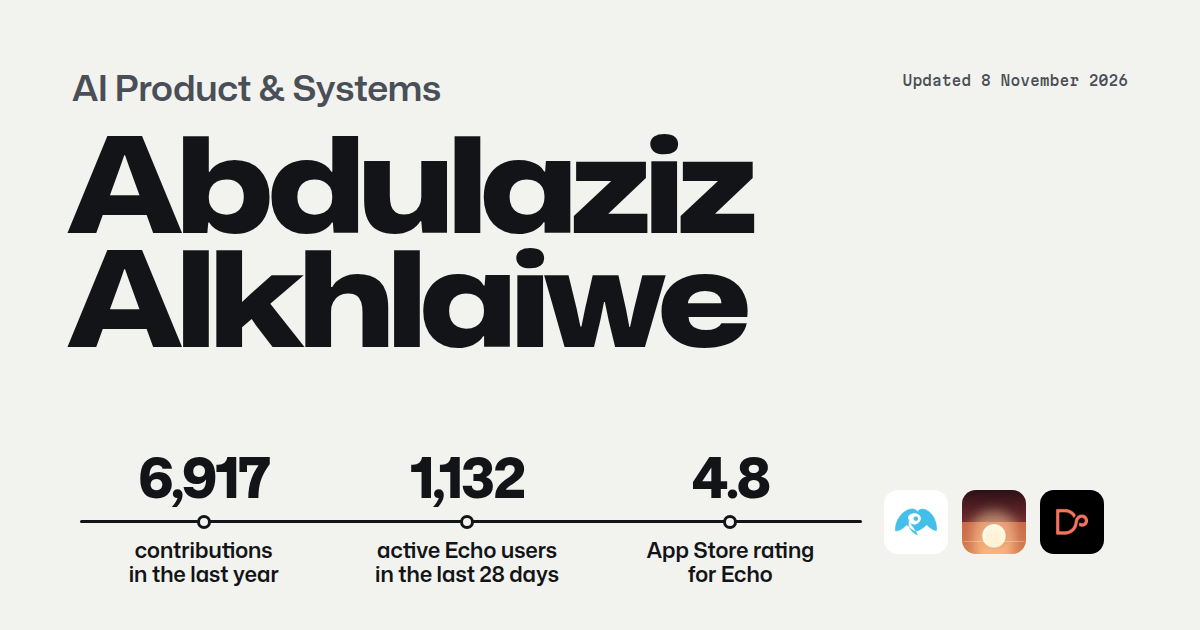
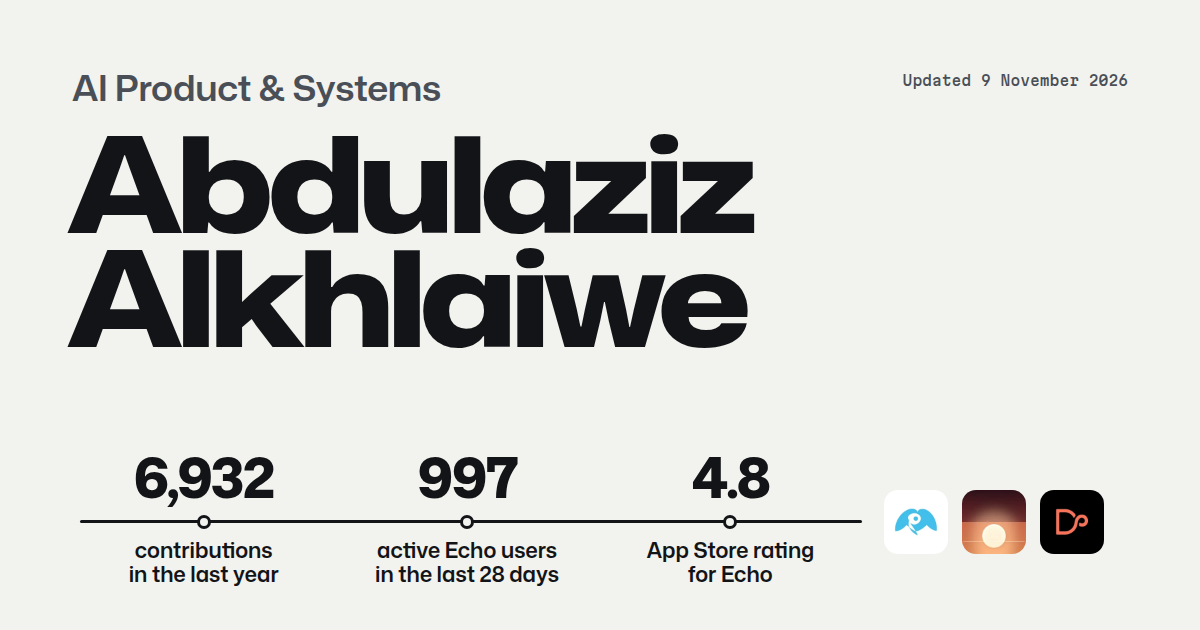
Refresh live data

Changed region(s): [[0.0925, 0.7238, 0.2467, 0.8143], [0.3392, 0.7238, 0.4625, 0.8143]]

diff --git a/index.html b/index.html
@@ -11,13 +11,13 @@
 <meta property="og:title" content="Abdulaziz Alkhlaiwe — AI Product & Systems">
 <meta property="og:description" content="I turn user and business problems into requirements, system workflows, API integrations and shipped products.">
 <meta property="og:url" content="https://justabdulaziz10.github.io/Abdulaziz/">
-<meta property="og:image" content="https://justabdulaziz10.github.io/Abdulaziz/assets/og.png?v=f8cbb96d">
+<meta property="og:image" content="https://justabdulaziz10.github.io/Abdulaziz/assets/og.png?v=d1915e50">
 <meta property="og:image:width" content="1200">
 <meta property="og:image:height" content="630">
 <meta property="og:image:alt" content="Abdulaziz Alkhlaiwe, AI Product &amp; Systems">
 <meta property="og:site_name" content="Abdulaziz Alkhlaiwe">
 <meta name="twitter:card" content="summary_large_image">
-<meta name="twitter:image" content="https://justabdulaziz10.github.io/Abdulaziz/assets/og.png?v=f8cbb96d">
+<meta name="twitter:image" content="https://justabdulaziz10.github.io/Abdulaziz/assets/og.png?v=d1915e50">
 <link rel="icon" href="assets/favicon.svg" type="image/svg+xml">
 <link rel="apple-touch-icon" href="assets/apple-touch-icon.png">
 <!-- no font or module preloads: on a slow phone they take bandwidth from the stylesheets and hold back the first paint
@@ -72,7 +72,7 @@
     <div class="wrap hero__inner">
       <p class="hero__role">AI Product &amp; Systems</p>
       <ul class="hero__proof" aria-label="Highlights">
-        <li><a href="#echo"><img src="assets/img/icon-echo.webp" width="192" height="192" alt=""><strong data-live="revenuecat.echo.activeUsers">1,132</strong><span>active Echo users in the last 28 days</span></a></li>
+        <li><a href="#echo"><img src="assets/img/icon-echo.webp" width="192" height="192" alt=""><strong data-live="revenuecat.echo.activeUsers">997</strong><span>active Echo users in the last 28 days</span></a></li>
         <li><a href="#mara"><img src="assets/img/icon-mara.webp" width="192" height="192" alt=""><strong>Misk Launchpad</strong><span>Cohort 9, with Mara</span></a></li>
         <li><a href="#rassah"><img src="assets/img/icon-rassah.svg" width="64" height="64" alt=""><strong>Two days</strong><span>to build Rassah, end to end</span></a></li>
       </ul>
@@ -103,14 +103,14 @@
   <!-- THE YEAR -->
   <section class="year" id="year" data-world="paper" aria-labelledby="year-title">
     <div class="wrap">
-      <h2 class="year__title" id="year-title"><span class="num" data-count="6917" data-live="github.total">6,917</span> contributions in the last year</h2>
-      <p class="year__sub">Every point is a week on GitHub, from <span data-live="github.from" data-fmt="date">2 November 2025</span> to <span data-live="github.to" data-fmt="date">7 November 2026</span>. <span data-live="github.activeDays">305</span> active days, and a run of <span data-live="github.streak">89</span> days in a row that is still going.</p>
+      <h2 class="year__title" id="year-title"><span class="num" data-count="6932" data-live="github.total">6,932</span> contributions in the last year</h2>
+      <p class="year__sub">Every point is a week on GitHub, from <span data-live="github.from" data-fmt="date">9 November 2025</span> to <span data-live="github.to" data-fmt="date">9 November 2026</span>. <span data-live="github.activeDays">303</span> active days, and a run of <span data-live="github.streak">91</span> days in a row that is still going.</p>
       <p class="year__week" data-week hidden><span class="year__week-label">This week:</span> <span class="year__week-items" data-week-items></span></p>
       <div class="scene-slot" data-scene="year"></div>
       <div class="lab">
         <div class="lab__text">
-          <h3 class="lab__count"><span class="num" data-live="gitlab.pushes">1,741</span> pushes to GitLab</h3>
-          <p class="lab__sub">Since <span data-live="gitlab.first" data-fmt="date">23 August 2026</span>, on <span data-live="gitlab.activeDays">75</span> days. Mara’s builds run on GitLab, so these stay out of the GitHub count above.</p>
+          <h3 class="lab__count"><span class="num" data-live="gitlab.pushes">1,747</span> pushes to GitLab</h3>
+          <p class="lab__sub">Since <span data-live="gitlab.first" data-fmt="date">23 August 2026</span>, on <span data-live="gitlab.activeDays">77</span> days. Mara’s builds run on GitLab, so these stay out of the GitHub count above.</p>
         </div>
         <div class="lab__cal" data-lab-cal></div>
       </div>
@@ -155,7 +155,7 @@
           <p class="project__kind">A 0-to-1, privacy-first photo-memory app for iPhone.</p>
           <dl class="project__facts">
             <div><dt>What I did</dt><dd>Product development, UX, monetization, analytics and release management.</dd></div>
-            <div><dt>Outcome</dt><dd><strong data-live="revenuecat.echo.activeUsers">1,132</strong> active users in the last 28 days. Rated <strong data-live="apps.echo.rating">4.8</strong> on the App Store, in <strong data-live="apps.echo.languages">37</strong> languages, now on version <span data-live="apps.echo.version">1.46</span>.</dd></div>
+            <div><dt>Outcome</dt><dd><strong data-live="revenuecat.echo.activeUsers">997</strong> active users in the last 28 days. Rated <strong data-live="apps.echo.rating">4.8</strong> on the App Store, in <strong data-live="apps.echo.languages">37</strong> languages, now on version <span data-live="apps.echo.version">1.46</span>.</dd></div>
           </dl>
           <div class="pm" data-pm hidden>
             <div class="pm__inner">
@@ -163,7 +163,7 @@
                 <div><dt>Requirement</dt><dd>People with years of photos rarely look back at them. Surface one photo a day from their own library, chosen on the device. Mara's servers never receive the photos.</dd></div>
                 <div><dt>Flow</dt><dd><ol class="pm__flow"><li>Open Today</li><li>See a photo from your camera roll</li><li>Keep it</li><li>Add words or a voice note, if you want</li><li>Save it to the Wall</li><li>The saved photo stays off Today, even after relaunch</li></ol></dd></div>
                 <div><dt>Decision</dt><dd>Start from photos people already have.<span class="pm__why">Over a blank journal page or an upload service. No account, and no copy on Mara's servers. Saved memories sync only through the person's own iCloud.</span></dd></div>
-                <div><dt>Result</dt><dd><strong data-live="revenuecat.echo.activeUsers">1,132</strong> active users in the last 28 days. In a unit test on a simulated library of over 2,000 photos, 40 picks in a row had no two from within three days.</dd></div>
+                <div><dt>Result</dt><dd><strong data-live="revenuecat.echo.activeUsers">997</strong> active users in the last 28 days. In a unit test on a simulated library of over 2,000 photos, 40 picks in a row had no two from within three days.</dd></div>
               </dl>
             </div>
           </div>
@@ -251,18 +251,18 @@
           <p class="project__links"><a class="link" href="https://f1-xi-weld.vercel.app" target="_blank" rel="noopener noreferrer">Open Pit Lane Hub</a><a class="link" href="https://github.com/justAbdulaziz10/Pit-Lane-Hub" target="_blank" rel="noopener noreferrer">Source</a></p>
         </div>
         <div class="project__live">
-          <p class="race" data-race hidden aria-live="off"><span class="race__label">Next race</span> <span class="race__name">Brazilian Grand Prix, São Paulo</span> <time class="race__clock" datetime="2026-11-08T17:00:00Z">8 November 2026</time> <a class="race__follow link" href="https://f1-xi-weld.vercel.app/live" target="_blank" rel="noopener noreferrer" hidden>Follow it live on Pit Lane Hub</a></p>
+          <p class="race" data-race hidden aria-live="off"><span class="race__label">Next race</span> <span class="race__name">Las Vegas Grand Prix, Las Vegas</span> <time class="race__clock" datetime="2026-11-22T04:00:00Z">22 November 2026</time> <a class="race__follow link" href="https://f1-xi-weld.vercel.app/live" target="_blank" rel="noopener noreferrer" hidden>Follow it live on Pit Lane Hub</a></p>
           <section class="last-race" data-last-race hidden aria-labelledby="last-race-title">
             <div class="last-race__heading">
               <h3 class="last-race__label" id="last-race-title">Last race</h3>
-              <p class="last-race__event"><span data-last-race-name>Mexico City Grand Prix</span>, <time data-last-race-date datetime="2026-11-01">1 November 2026</time></p>
+              <p class="last-race__event"><span data-last-race-name>Brazilian Grand Prix</span>, <time data-last-race-date datetime="2026-11-08">8 November 2026</time></p>
             </div>
             <ol class="last-race__podium" data-last-race-podium aria-label="Podium">
-              <li class="last-race__row"><span class="last-race__position is-p1">P1</span><span class="last-race__driver"><span class="last-race__name">Max Verstappen</span><span class="last-race__code">VER</span><span class="last-race__team">Red Bull</span></span><span class="last-race__time">2:20:28.772</span></li>
-              <li class="last-race__row"><span class="last-race__position">P2</span><span class="last-race__driver"><span class="last-race__name">Lewis Hamilton</span><span class="last-race__code">HAM</span><span class="last-race__team">Ferrari</span></span><span class="last-race__time">+0.799</span></li>
-              <li class="last-race__row"><span class="last-race__position">P3</span><span class="last-race__driver"><span class="last-race__name">Andrea Kimi Antonelli</span><span class="last-race__code">ANT</span><span class="last-race__team">Mercedes</span></span><span class="last-race__time">+4.006</span></li>
+              <li class="last-race__row"><span class="last-race__position is-p1">P1</span><span class="last-race__driver"><span class="last-race__name">Lando Norris</span><span class="last-race__code">NOR</span><span class="last-race__team">McLaren</span></span><span class="last-race__time">1:35:23.504</span></li>
+              <li class="last-race__row"><span class="last-race__position">P2</span><span class="last-race__driver"><span class="last-race__name">Max Verstappen</span><span class="last-race__code">VER</span><span class="last-race__team">Red Bull</span></span><span class="last-race__time">+14.602</span></li>
+              <li class="last-race__row"><span class="last-race__position">P3</span><span class="last-race__driver"><span class="last-race__name">Isack Hadjar</span><span class="last-race__code">HAD</span><span class="last-race__team">Red Bull</span></span><span class="last-race__time">+24.485</span></li>
             </ol>
-            <p class="last-race__fastest" data-last-race-fastest hidden><span class="last-race__fastest-label">Fastest lap</span><span class="last-race__fastest-value">Lewis Hamilton, <span class="last-race__time">1:19.268</span></span></p>
+            <p class="last-race__fastest" data-last-race-fastest hidden><span class="last-race__fastest-label">Fastest lap</span><span class="last-race__fastest-value">Andrea Kimi Antonelli, <span class="last-race__time">1:12.689</span></span></p>
           </section>
         </div>
         <div class="project__scene project__scene--wide"><div class="scene-slot" data-scene="circuit"></div></div>
